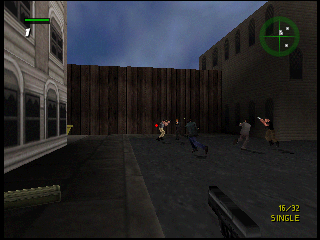
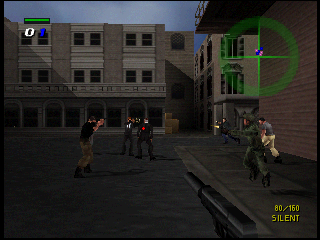
new: new build

diff --git a/README.md b/README.md
@@ -40,17 +40,21 @@ Tested with:
 - **1 human + 7 bots** (8 participants) in a single match.
 - **All levels, maps, modes and weapons unlocked** — no cheat device required.
 - **Neutral skins** and **mixed character types** allowed; two slots may pick the same character.
-- **Character Setup** description line removed.
-- **Advanced Options screen** (new, reachable from the Multiplayer menu) with:
-  - **AI Difficulty**
-  - **Ammo Multiplier** — scales both the magazine capacity and the fire rate
-- **Capture the Flag is complete**: flags sit on the base posts and both flags and bases show up as blips on the radar.
-- **Kill credit works**: the scoreboard credits the player who actually got the kill.
+- **Randomized spawn** — each participant is placed with a small random offset (up to ±0.5 units in X/Z) around the spawn point, so the 8 players no longer stack on top of each other.
+- A new menu called **Advanced Options screen** (reachable from the Multiplayer menu) with:
+  - **Bot Difficult** — Default, Walkers Easy, Easy, Walkers Hard, Hard, Very Hard.
+  - **Bot Preferences** — Normal, Snipers, Pistols, Explosives.
+  - **Bot Damage Mult** — 0.5x to 10x; scales explosion damage (the usual cause of instant bot deaths).
+  - **Bot Health** — 0.1x to 50x (1x default).
+  - **Player Health** — 0.1x to 50x (1x default).
+  - **Ammo Mult** — 1x, 2x, 4x, 5x; scales both the magazine capacity and the fire rate (capped at 120 rounds).
+  - **Enhanced Radar** — OFF / ON; a slightly larger radar with smaller, better dots.  
+  ![Menu](images/screenshot_advanced.png)
 
-
-## Bug fixes
+## Bug Fixes
 
 - Removed the engine's **6-participant limit** (the asset list was colliding with the game-mode byte).
+- Fixed the **asset-list terminator** — entering a team mode (e.g. Capture the Flag) from boot no longer hangs.
 - Participants **4 to 7 are now drawn and can be hit** (they used to be invisible and bullets passed through them).
 - Fixed the **bot HUD leaking into the human's view**.
 - Fixed a **freeze caused by a floating-point exception** (the objective position was being overwritten by the controller read).
@@ -61,12 +65,18 @@ Tested with:
 - Fixed the **score going to -1** when you are killed in Arena.
 - Fixed the **CTF flags not appearing on the posts**.
 - Fixed the **4th row of the character list** showing the wrong label.
+- Fixed **option value text truncation** ("Slo" / "Low ") after changing an option.
+- Fixed **kill/death attribution** when several players damage the same target.
+- Fixed the **radar/preset state block** overlapping the live damage table, which could corrupt damage multipliers.
+- Fixed the **Ammo Multiplier 2x** value and clamped ammo at 120 rounds.
+- Fixed the **Normalized explosion damage**: a direct explosion no longer one-shots a bot with boosted health.
+- Fixed the **Character Setup giving irrelevant information** by removing the line.
 
 
 ## Known Issues
 
 - **Black loading screen** — cosmetic, accepted as a side effect of the fix for the bot HUD.
-- **Rare random freeze** — happens occasionally during a match; under investigation.
+- **Rare random freeze** — happens occasionally during a match; the radar/preset state collision was fixed, so it should be less frequent, but it is still under investigation.
 - **Scoreboard positions** are not always correct (the position shown on respawn and in the pause menu).
 - **Initially selected bots are poor choices.**
 - **Single player** has not been tested.
@@ -74,12 +84,16 @@ Tested with:
 
 ## Roadmap
 
-- [ ] Fix random crashes
-- [ ] Make a character's spawn "random" within an area near the Spawn Point (avoids spawning everyone in the same place)
-- [ ] Bot Speed Multiplier: 0.5x, 0.75x, 1x, 2x, 4x, 5x
-- [ ] Player Speed Multiplier: 0.5x, 0.75x, 1x, 2x, 4x, 5x
-- [ ] Bot Health Mult.: 0.25x, 0.5x, 1x, 2x, 4x, 8x
-- [ ] Radar Enhanced: OFF, ON -> make the radar slightly bigger, with smaller and better dots
-- [ ] "Night" mode
-- [ ] New option: Automatic Weapons \[OFF|ON]
-- [ ] Fix scoreboard positions (both the position shown on respawn and in the pause menu) -> minor
+![Green Fog Preset](images/screenshot_greenfog.png)
+
+- [x] Make a character's spawn "random" within an area near the Spawn Point
+- [x] Bot Health multiplier (0.1x–50x)
+- [x] Enhanced Radar (OFF/ON, larger radar with better dots)
+- [ ] Visual presets / "Night" mode (Blue Fog, Toxic, Sepia, Yellow Mist, Red Mist, Blackout)
+- [ ] Fix the rare random freeze
+- [ ] Fix the scoreboard positions (respawn and pause menu)
+- [ ] Bot Speed Multiplier
+- [ ] Player Speed Multiplier
+- [ ] New option: Automatic Weapons (make all weapons automatic)
+- [ ] Long-range bot aiming (v1.1 — built and under validation to the next version)
+- [ ] Advanced Menu pages: Bots / Player & Ammo / Enhancements
